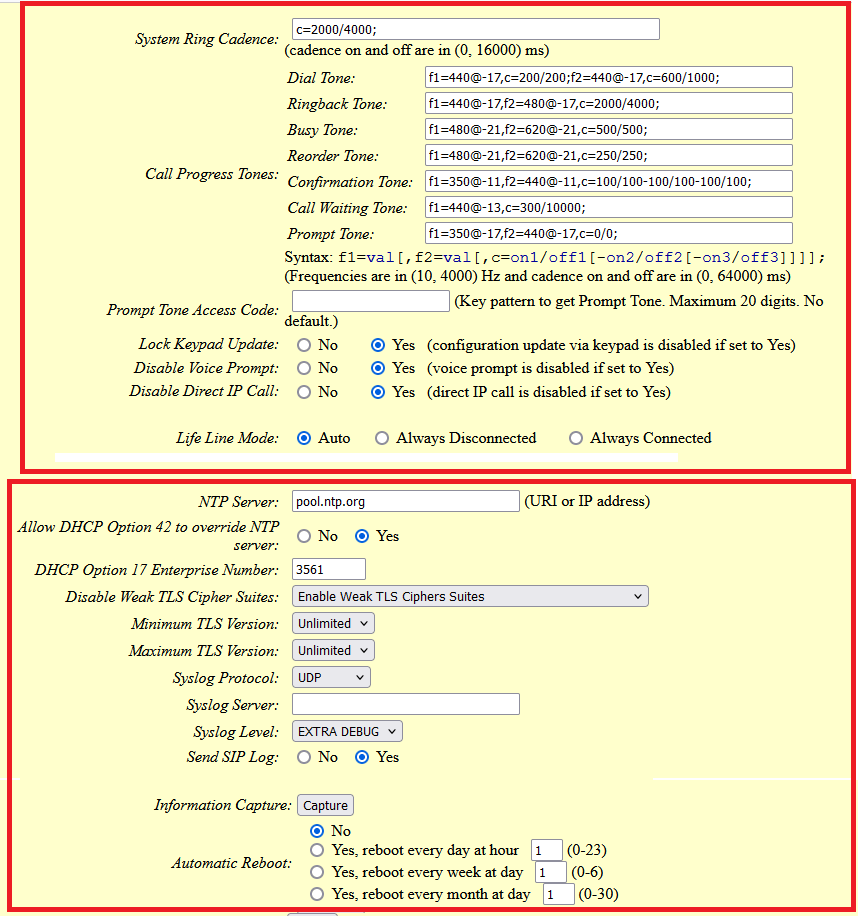
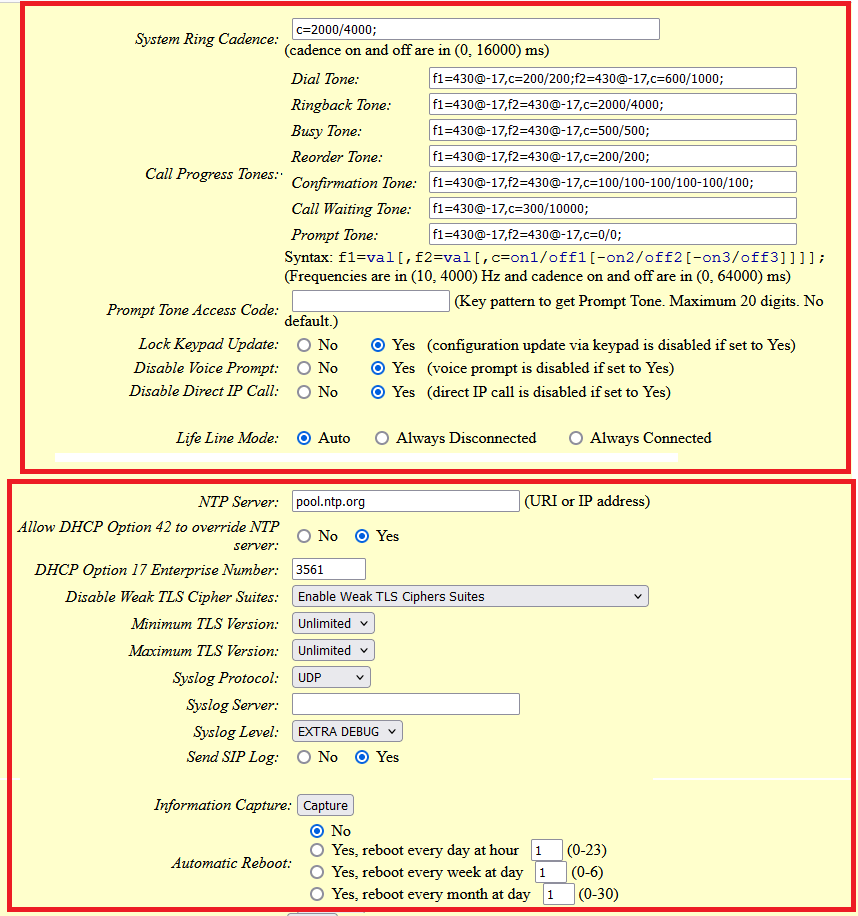
Perfezionati i toni Call Progress Tones

Changed region(s): [[0.3333, 0.0611, 0.9394, 0.2751]]

diff --git a/index.html b/index.html
@@ -676,13 +676,13 @@ migliorabile, potete voi stessi aggiungere suggerimenti.</p>
 &nbsp; </p>
 <p align="left" style="margin-top: 0; margin-bottom: 0">
 <b>Dial Tone:</b> 
-f1=440@-17,c=200/200;f2=440@-17,c=600/1000;<br>
-<b>Ringback Tone: </b>f1=440@-17,f2=480@-17,c=2000/4000;<br>
-<b>Busy Tone: </b>f1=480@-21,f2=620@-21,c=500/500;<br>
-<b>Reorder Tone:</b> f1=480@-21,f2=620@-21,c=250/250;<br>
-<b>Confirmation Tone:</b> f1=350@-11,f2=440@-11,c=100/100-100/100-100/100;<br>
-<b>Call Waiting Tone:</b> f1=440@-13,c=300/10000;<br>
-<b>Prompt Tone:</b> f1=350@-17,f2=440@-17,c=0/0;<br>
+f1=430@-17,c=200/200;f2=430@-17,c=600/1000;<br>
+<b>Ringback Tone: </b>f1=430@-17,f2=430@-17,c=2000/4000;<br>
+<b>Busy Tone: </b>f1=430@-17,f2=430@-17,c=500/500;<br>
+<b>Reorder Tone:</b> f1=430@-17,f2=430@-17,c=200/200;<br>
+<b>Confirmation Tone:</b> f1=430@-17,f2=430@-17,c=100/100-100/100-100/100;<br>
+<b>Call Waiting Tone:</b> f1=430@-17,c=300/10000;<br>
+<b>Prompt Tone:</b> f1=430@-17,f2=430@-17,c=0/0;<br>
 &nbsp;</p>
 <p align="left" style="margin-top: 0; margin-bottom: 0">
 &nbsp;</p>
